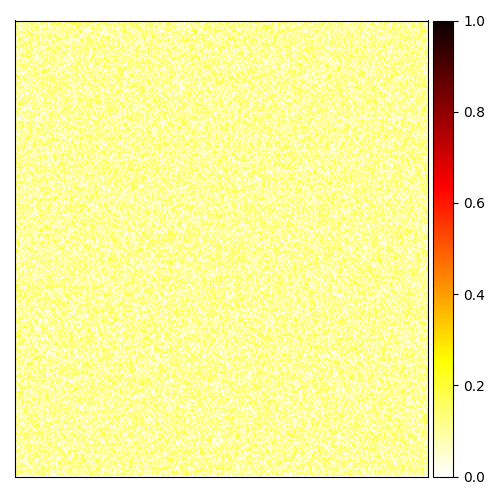
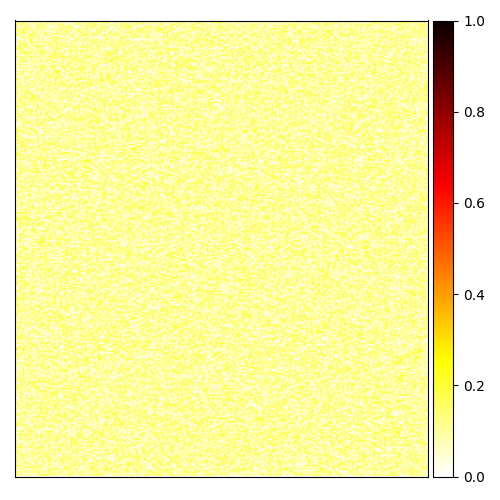
修改学习法则

diff --git a/MNIST/my_SPL_tool.py b/MNIST/my_SPL_tool.py
@@ -103,7 +103,7 @@ class SpatialLearningRule(LearningRule):
                     post_window = post_spikes[t:t+self.window, j]
                     
                     # STDP学习
-                    """pre_times为tensor([1]),表示脉冲发生在索引1处
+                    """pre_times为tensor([1]),表示脉冲发生在索引1处:
                     post_times为tensor([3,8]),表示脉冲发生在索引3和8处"""
                     pre_times = (pre_window > 0).nonzero(as_tuple=True)[0]
                     post_times = (post_window > 0).nonzero(as_tuple=True)[0]
@@ -116,42 +116,42 @@ class SpatialLearningRule(LearningRule):
                         
                         if len(valid_diffs) > 0:
                             # 计算权重更新量
-                            updates = self.nu[0] * torch.exp(-valid_diffs / self.tau)
+                            updates = self.nu[0] * torch.exp(-valid_diffs / self.tau)#这里有问题，原来的话，增强用的是1e-10,减弱用的1e-3
                             # 累加所有有效的更新量
                             delta_w[i, j] += updates.sum()
                     
                     # 空间邻域增强 - 保留空间映射功能
-                    pre_y, pre_x = divmod(i, self.input_shape[1])#divmod同时返回商和余数，可以直接将一维的输入层索引i转换为二维的坐标(x,y)
-                    for dy in range(-self.neighbor_radius, self.neighbor_radius+1):
-                        for dx in range(-self.neighbor_radius, self.neighbor_radius+1):
-                            ni, nj = pre_y+dy, pre_x+dx# 在输入层中的神经元
-                            if 0 <= ni < self.input_shape[0] and 0 <= nj < self.input_shape[1]:
-                                n_idx = ni * self.input_shape[1] + nj# 将二维坐标转换为一维索引，仅仅是为了能够使用for循环，并保证不超过输入层神经元数量
-                                if n_idx < N_pre:
-                                    """这里的思路有点绕。我们有了 输入层 的一个小矩阵中的一个神经元的二维索引(x,y)
-                                    我们想得到这个神经元在 输入层 中的所有邻居的二维索引，
-                                    那就先转换成 输出层 的一个神经元的二维索引，
-                                    然后通过函数get_input_coordinates，得到这个神经元在 输入层 中的所有邻居的二维索引
-                                    然后再通过函数get_region_spikes，得到这个神经元在 输入层 中的所有邻居的脉冲情况
-                                    """
-                                    neighbor_region_coords = self.get_input_coordinates(#得到了输入层的矩阵
-                                        self.convert_input_to_E(ni, nj)[0],
-                                        self.convert_input_to_E(ni, nj)[1]
-                                    )
-                                    neighbor_pre_spikes = self.get_region_spikes(
-                                        pre_spikes, neighbor_region_coords, t, self.window
-                                    )
+                    # pre_y, pre_x = divmod(i, self.input_shape[1])#divmod同时返回商和余数，可以直接将一维的输入层索引i转换为二维的坐标(x,y)
+                    # for dy in range(-self.neighbor_radius, self.neighbor_radius+1):
+                    #     for dx in range(-self.neighbor_radius, self.neighbor_radius+1):
+                    #         ni, nj = pre_y+dy, pre_x+dx# 在输入层中的神经元
+                    #         if 0 <= ni < self.input_shape[0] and 0 <= nj < self.input_shape[1]:
+                    #             n_idx = ni * self.input_shape[1] + nj# 将二维坐标转换为一维索引，仅仅是为了能够使用for循环，并保证不超过输入层神经元数量
+                    #             if n_idx < N_pre:
+                    #                 """这里的思路有点绕。我们有了 输入层 的一个小矩阵中的一个神经元的二维索引(x,y)
+                    #                 我们想得到这个神经元在 输入层 中的所有邻居的二维索引，
+                    #                 那就先转换成 输出层 的一个神经元的二维索引，
+                    #                 然后通过函数get_input_coordinates，得到这个神经元在 输入层 中的所有邻居的二维索引
+                    #                 然后再通过函数get_region_spikes，得到这个神经元在 输入层 中的所有邻居的脉冲情况
+                    #                 """
+                    #                 neighbor_region_coords = self.get_input_coordinates(#得到了输入层的矩阵
+                    #                     self.convert_input_to_E(ni, nj)[0],
+                    #                     self.convert_input_to_E(ni, nj)[1]
+                    #                 )
+                    #                 neighbor_pre_spikes = self.get_region_spikes(
+                    #                     pre_spikes, neighbor_region_coords, t, self.window
+                    #                 )
                                     
-                                    if len((neighbor_pre_spikes > 0).nonzero(as_tuple=True)[0]) > 0 and \
-                                       len(post_times) > 0:
-                                        """第一行：判断输入层上，时间窗口中，是否有神经元活动
-                                        第二行：判断输出层上，时间窗口中，是否有神经元活动
-                                        0.5/矩阵面积(为了平摊)倍率的nu(试着调参)
-                                        """
-                                        for y, x in neighbor_region_coords:
-                                            idx = y * self.input_shape[1] + x
-                                            #idx指的是在输入层，即感受野上的神经元矩阵；j表示一个输出层的神经元
-                                            delta_w[idx, j] += self.nu[0] * 0.5 / len(neighbor_region_coords)#这里除以len(neighbor_region_coords)是为了将权重按照空间平均分配到邻居神经元上
+                    #                 if len((neighbor_pre_spikes > 0).nonzero(as_tuple=True)[0]) > 0 and \
+                    #                    len(post_times) > 0:
+                    #                     """第一行：判断输入层上，时间窗口中，是否有神经元活动
+                    #                     第二行：判断输出层上，时间窗口中，是否有神经元活动
+                    #                     0.5/矩阵面积(为了平摊)倍率的nu(试着调参)
+                    #                     """
+                    #                     for y, x in neighbor_region_coords:
+                    #                         idx = y * self.input_shape[1] + x
+                    #                         #idx指的是在输入层，即感受野上的神经元矩阵；j表示一个输出层的神经元
+                    #                         delta_w[idx, j] += self.nu[0] * 0.5 / len(neighbor_region_coords)#这里除以len(neighbor_region_coords)是为了将权重按照空间平均分配到邻居神经元上
 
         # 权重更新
         w += delta_w
@@ -256,6 +256,19 @@ class DiehlAndCook2015_with_SPL(Network):
             wmax=wmax,
             norm=norm,
         )
+
+        input_exc_conn = Connection(
+            source=input_layer,
+            target=exc_layer,
+            w=w,
+            update_rule=PostPre,
+            nu=nu,
+            reduction=reduction,
+            wmin=wmin,
+            wmax=wmax,
+            norm=norm,
+        )
+
         w = self.exc * torch.diag(torch.ones(self.n_neurons))
         exc_inh_conn = Connection(
             source=exc_layer, target=inh_layer, w=w, wmin=0, wmax=self.exc
@@ -275,3 +288,5 @@ class DiehlAndCook2015_with_SPL(Network):
         self.add_connection(input_exc_conn, source="X", target="Ae")
         self.add_connection(exc_inh_conn, source="Ae", target="Ai")
         self.add_connection(inh_exc_conn, source="Ai", target="Ae")
+
+

diff --git a/my_SPL_tool.py b/my_SPL_tool.py
@@ -256,6 +256,19 @@ class DiehlAndCook2015_with_SPL(Network):
             wmax=wmax,
             norm=norm,
         )
+
+        input_exc_conn = Connection(
+            source=input_layer,
+            target=exc_layer,
+            w=w,
+            update_rule=PostPre,
+            nu=nu,
+            reduction=reduction,
+            wmin=wmin,
+            wmax=wmax,
+            norm=norm,
+        )
+
         w = self.exc * torch.diag(torch.ones(self.n_neurons))
         exc_inh_conn = Connection(
             source=exc_layer, target=inh_layer, w=w, wmin=0, wmax=self.exc
